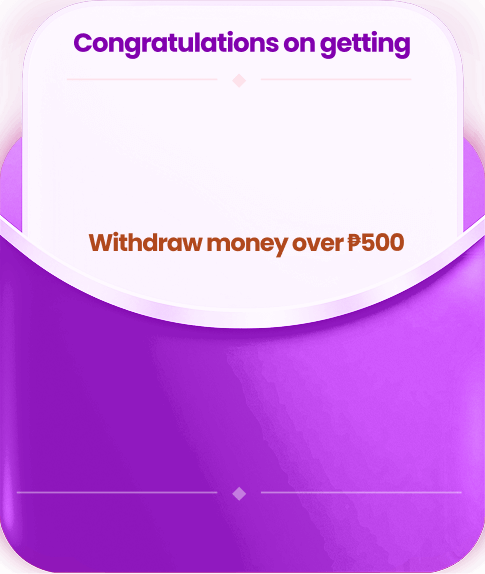
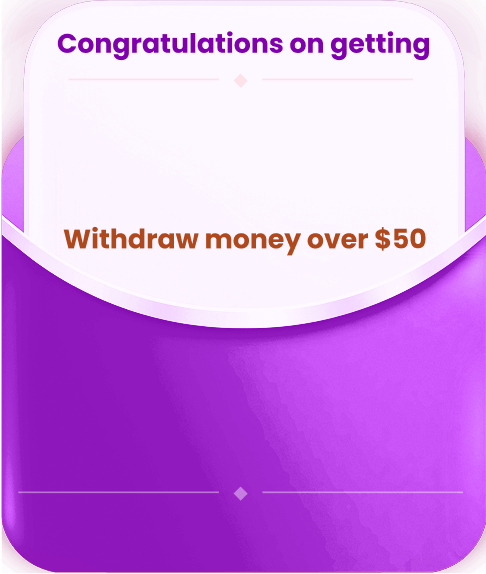
feat: [au1] update timezone and currency value

diff --git a/au1-static-h5/src/pages/account/WithdrawMethodView.vue b/au1-static-h5/src/pages/account/WithdrawMethodView.vue
@@ -282,7 +282,7 @@
                     class="minmax-btn"
                     rounded
                     color="black"
-                    label="min"
+                    label="Min"
                     dense
                     no-caps
                     @click="toggleAmount('min')"
@@ -324,7 +324,7 @@
               <span class="fund-title">Available:</span>
               <q-spinner v-if="isRefreshRemainWager" />
               <span v-else>
-                {{ store.currency.label }} {{ convertToCommaAmount(selectedMethodItem.withdrawableBalance) }}
+                {{ store.currency.value }} {{ convertToCommaAmount(selectedMethodItem.withdrawableBalance) }}
               </span>
             </div>
           </div>
@@ -336,7 +336,7 @@
               </div>
               <div class="desc desc_white">
                 <!-- {{ store.currency.label }}:{{ convertToCommaAmount(withdrawalMethods[withdrawalDialogTab].withdrawAmount) }} -->
-                {{ store.currency.label }}: {{ selectedMethodItem.withdrawAmount }}
+                {{ store.currency.value }}: {{ selectedMethodItem.withdrawAmount }}
               </div>
             </div>
             <div class="info">
@@ -345,7 +345,7 @@
               </div>
               <div class="desc desc_white">
                 <!-- {{ store.currency.label }}:{{ convertToCommaAmount(withdrawalMethods[withdrawalDialogTab].withdrawMaxAmount) }} -->
-                {{ store.currency.label }}: {{ convertToCommaAmount(selectedMethodItem.withdrawMaxAmount) }}
+                {{ store.currency.value }}: {{ convertToCommaAmount(selectedMethodItem.withdrawMaxAmount) }}
               </div>
             </div>
             <div class="info">

diff --git a/au1-static-h5/src/components/hotpromo/spin-lucky-wheel/PromoSticky.vue b/au1-static-h5/src/components/hotpromo/spin-lucky-wheel/PromoSticky.vue
@@ -39,8 +39,8 @@ const { spinWheelLuckyPromoInfo: info } = storeToRefs(store);
 const getRemainingTime = (endTime) => {
     let result = "00:00:00";
     if (endTime) {
-        const now = moment(Date.now()).tz("Asia/Manila");
-        const _endTime = moment(endTime).tz("Asia/Manila");
+        const now = moment(Date.now()).tz("Australia/Sydney");
+        const _endTime = moment(endTime).tz("Australia/Sydney");
         const totalSeconds = _endTime.diff(now, "seconds");
         if (totalSeconds > 0) {
             const hours = Math.floor(totalSeconds / 3600);
@@ -56,8 +56,8 @@ const getRemainingTime = (endTime) => {
 
 const updateCountdownTime = () => {
     // console.log("updateCountdownTime")
-    const endTime = moment(info.value.startTime).tz("Asia/Manila").add(3, "days");
-    const nextFreeSpinEndTime = moment().tz("Asia/Manila").add(1, "days").startOf("day");
+    const endTime = moment(info.value.startTime).tz("Australia/Sydney").add(3, "days");
+    const nextFreeSpinEndTime = moment().tz("Australia/Sydney").add(1, "days").startOf("day");
     if (timer.value) {
         clearTimeout(timer.value);
     }

diff --git a/au1-static-h5/src/pages/HomePage.vue b/au1-static-h5/src/pages/HomePage.vue
@@ -1010,7 +1010,7 @@ const slide = ref(0);
 const isFirstView = ref(false);
 const closeAlert = () => {
   // Create a new date object in GMT+5.5
-  const currentTimeInGMT55 = new Date(new Date().toLocaleString("en-US", { timeZone: "Asia/Kolkata" }));
+  const currentTimeInGMT55 = new Date(new Date().toLocaleString("en-US", { timeZone: "Australia/Sydney" }));
 
   localStorage.setItem("indexImgTop", currentTimeInGMT55.getTime());
   isFirstView.value = false;
@@ -2373,7 +2373,7 @@ const setExpiryBanner = () => {
 
 const setWithExpiry = (key, value, interval) => {
   // Create a new date object in GMT+5.5
-  const now = new Date(new Date().toLocaleString("en-US", { timeZone: "Asia/Kolkata" }));
+  const now = new Date(new Date().toLocaleString("en-US", { timeZone: "Australia/Sydney" }));
 
   const item = {
     value: value,

diff --git a/au1-static-h5/src/components/hotpromo/spin-lucky-wheel/WheelStage.vue b/au1-static-h5/src/components/hotpromo/spin-lucky-wheel/WheelStage.vue
@@ -303,9 +303,9 @@ const handleRecordClick = () => {
 const updateCountdownTime = () => {
   // console.log("updateCountdownTime")
   const endTime = isClaimedStatus.value
-    ? moment().tz("Asia/Manila").add(1, "days").startOf("day")
-    : moment(info.value.startTime).tz("Asia/Manila").add(3, "days");
-  const nextFreeSpinEndTime = moment().tz("Asia/Manila").add(1, "days").startOf("day");
+    ? moment().tz("Australia/Sydney").add(1, "days").startOf("day")
+    : moment(info.value.startTime).tz("Australia/Sydney").add(3, "days");
+  const nextFreeSpinEndTime = moment().tz("Australia/Sydney").add(1, "days").startOf("day");
   if (timer.value) {
     clearTimeout(timer.value);
   }

diff --git a/au1-static-h5/src/components/earn-money/ShareComponent.vue b/au1-static-h5/src/components/earn-money/ShareComponent.vue
@@ -157,7 +157,7 @@ const columns2 = [
   },
   {
     name: "betAmount",
-    label: "Reward per User (Aud)",
+    label: "Reward per User ($)",
     field: "betAmount",
     align: "center"
   }
